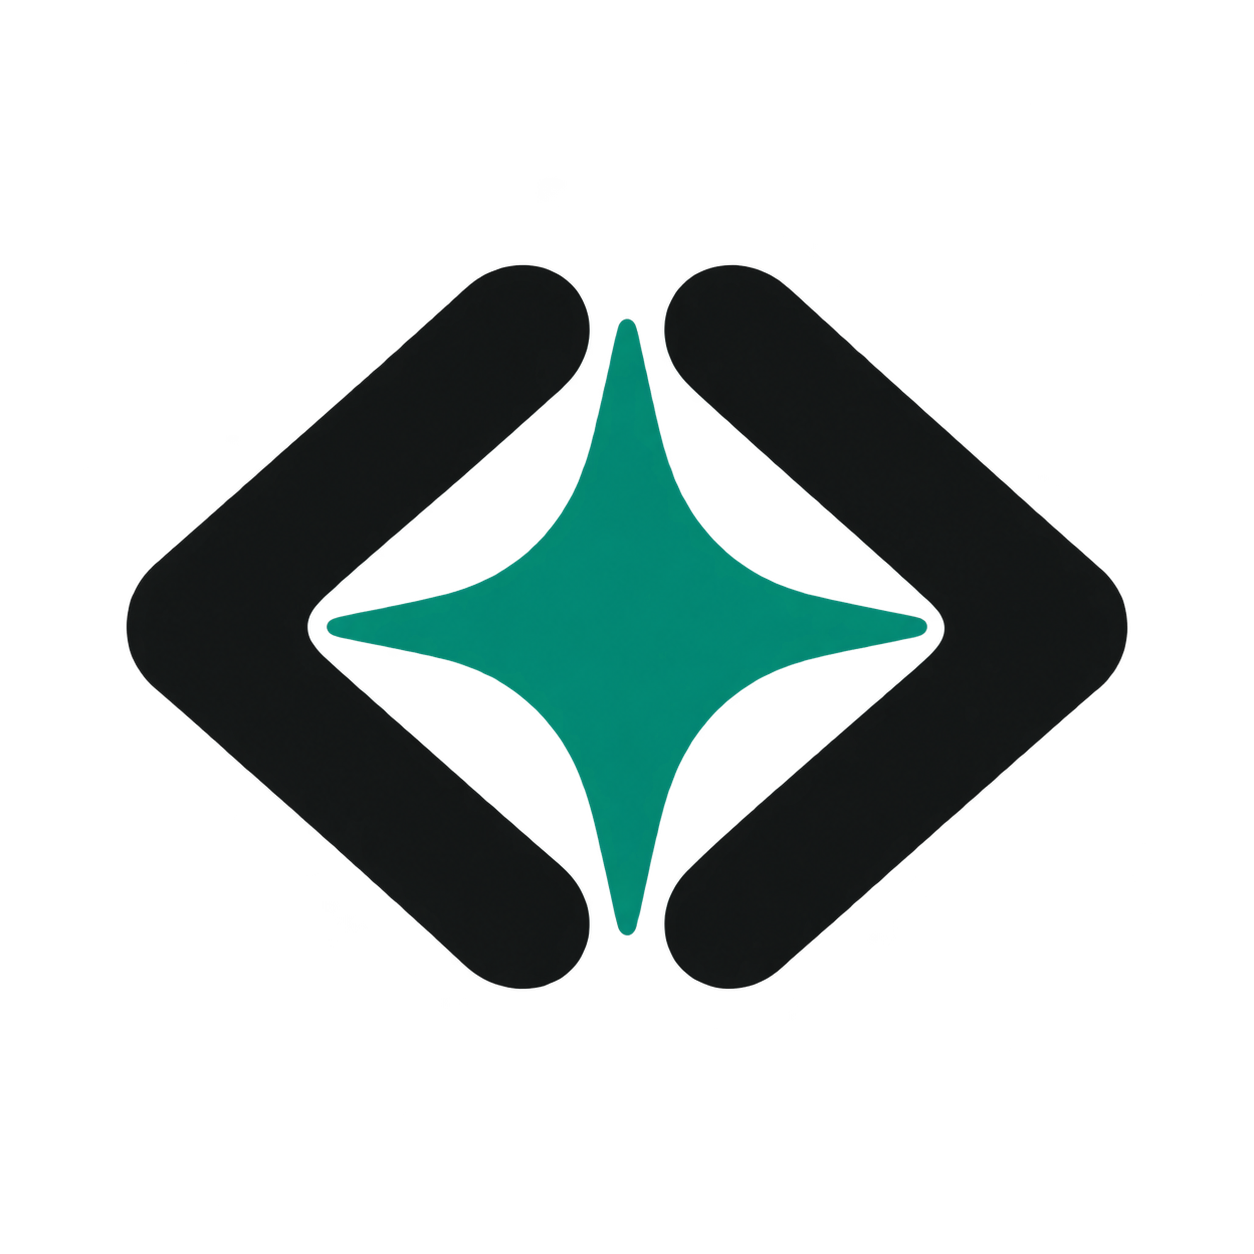
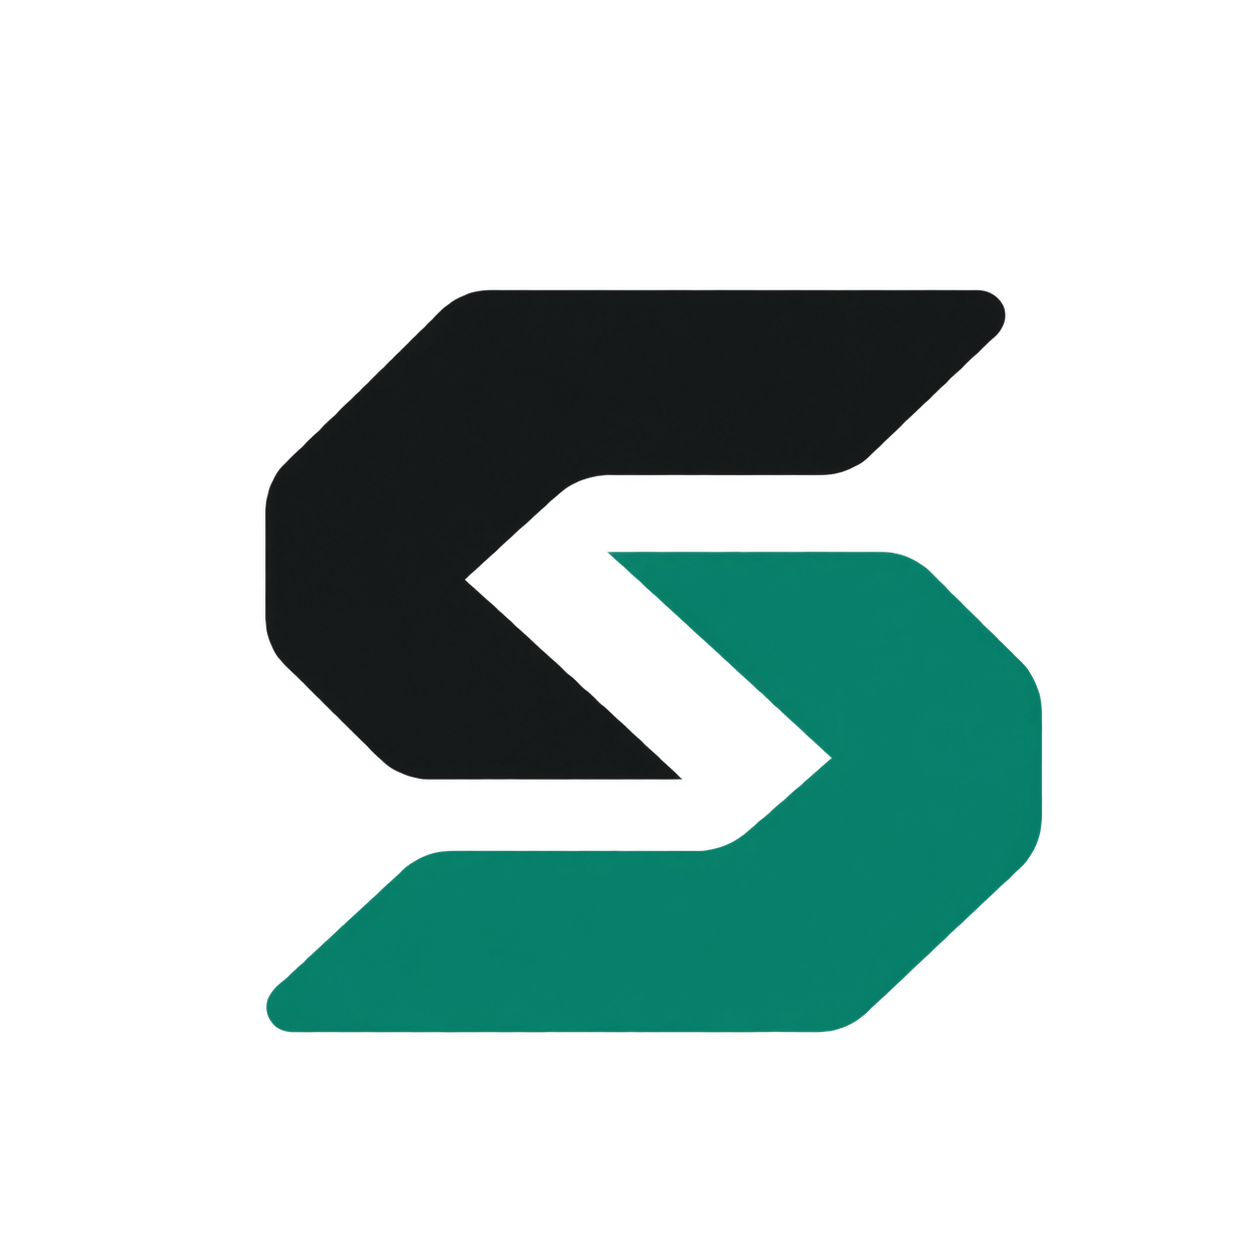
Use selected Starcode symbol and wordmark

diff --git a/docs/brand.md b/docs/brand.md
@@ -1,30 +1,35 @@
 # Starcode mark
 
-The symbol combines code brackets with a central four-point star. The brackets
-refer to integration; the star is the recognizable center. The open shape keeps
-the mark readable in Shopware's small extension icon. Dark ink and emerald-teal
-separate the parts without adding a background badge.
+Concept B, selected on 29 October 2026, uses a two-part geometric S in near-black
+and emerald. It replaces the earlier brackets-and-star mark, which remains in
+Git history.
 
-Use the transparent PNG at `src/Resources/config/plugin.png`. Keep equal clear
-space around it, preserve its aspect ratio and pair it with the plain word
-"Starcode" when the name is needed. Do not add a shield, tagline or shadow.
+Use `src/Resources/config/plugin.png` for the native Shopware extension icon.
+Use `docs/starcode-logo.png` for the horizontal symbol and wordmark. Both PNGs
+have transparent backgrounds and are intended for light surfaces. Preserve
+their aspect ratios and clear space. Do not add a badge, tagline or shadow.
 
-The design follows the Phoenix approach by giving each part a purpose and
-checking the combined mark in its real interface. Golden-ratio relationships
-informed the brief; no mathematical construction or superiority is claimed.
+The icon is 1254 x 1254 pixels. The horizontal logo is 2172 x 724 pixels.
+The selected source files were copied without pixel changes. Native Shopware
+scales the extension icon to its display size; do not replace that presentation
+with a separate custom administration component.
 
-Generated with the built-in image tool on 29 October 2026, then refined with the
-same tool. It is a raster master, not an editable vector. No third-party brand
-assets were supplied. Trademark availability has not been assessed.
+## Provenance and limits
 
-## Generation brief
+The artwork was produced with the built-in image-generation tool on
+29 October 2026 from the selected concept B. Separate reference-image edits
+extracted the standalone symbol and horizontal lockup, retaining their
+geometry and lettering and requesting transparent backgrounds.
 
-One compact geometric symbol for Starcode, a self-hosted Shopware form-protection
-plugin. Fuse inward-facing code brackets and a four-point star through negative
-space. Optically balanced, clear at small sizes, near-black and emerald-teal,
-equal transparent margins. No lettering, badge, shield, lock, gradients, 3D,
-shadows or literal phoenix. The refinement requested the same geometry with
-uniform solid fills and a transparent background.
+Requested colors were `#141817` and `#087F63`. The raster fills retain slight
+tonal variation and are not exact-color vector masters. No editable vector
+file or trademark clearance is claimed.
 
-The retained PNG is the selected output. Requested rendering and export size
-are design directions, not a claim of pixel-perfect color or vector precision.
+| Asset | SHA-256 |
+| --- | --- |
[2 lines of base64/hex data omitted]
+
+After changing the icon, run `php bin/console plugin:refresh` in the test shop
+and inspect Extensions > My extensions at the native display size. Asset
+presence alone does not prove that the administration has refreshed its icon.

diff --git a/README.md b/README.md
@@ -1,6 +1,6 @@
 # Starcode
 
-<img src="src/Resources/config/plugin.png" width="96" height="96" alt="Starcode symbol: a star between code brackets">
+<img src="docs/starcode-logo.png" width="324" height="108" alt="Starcode">
 
 Self-hosted form protection for Shopware 6.7. MIT licensed, without an account,
 CAPTCHA subscription or third-party verification requests.
